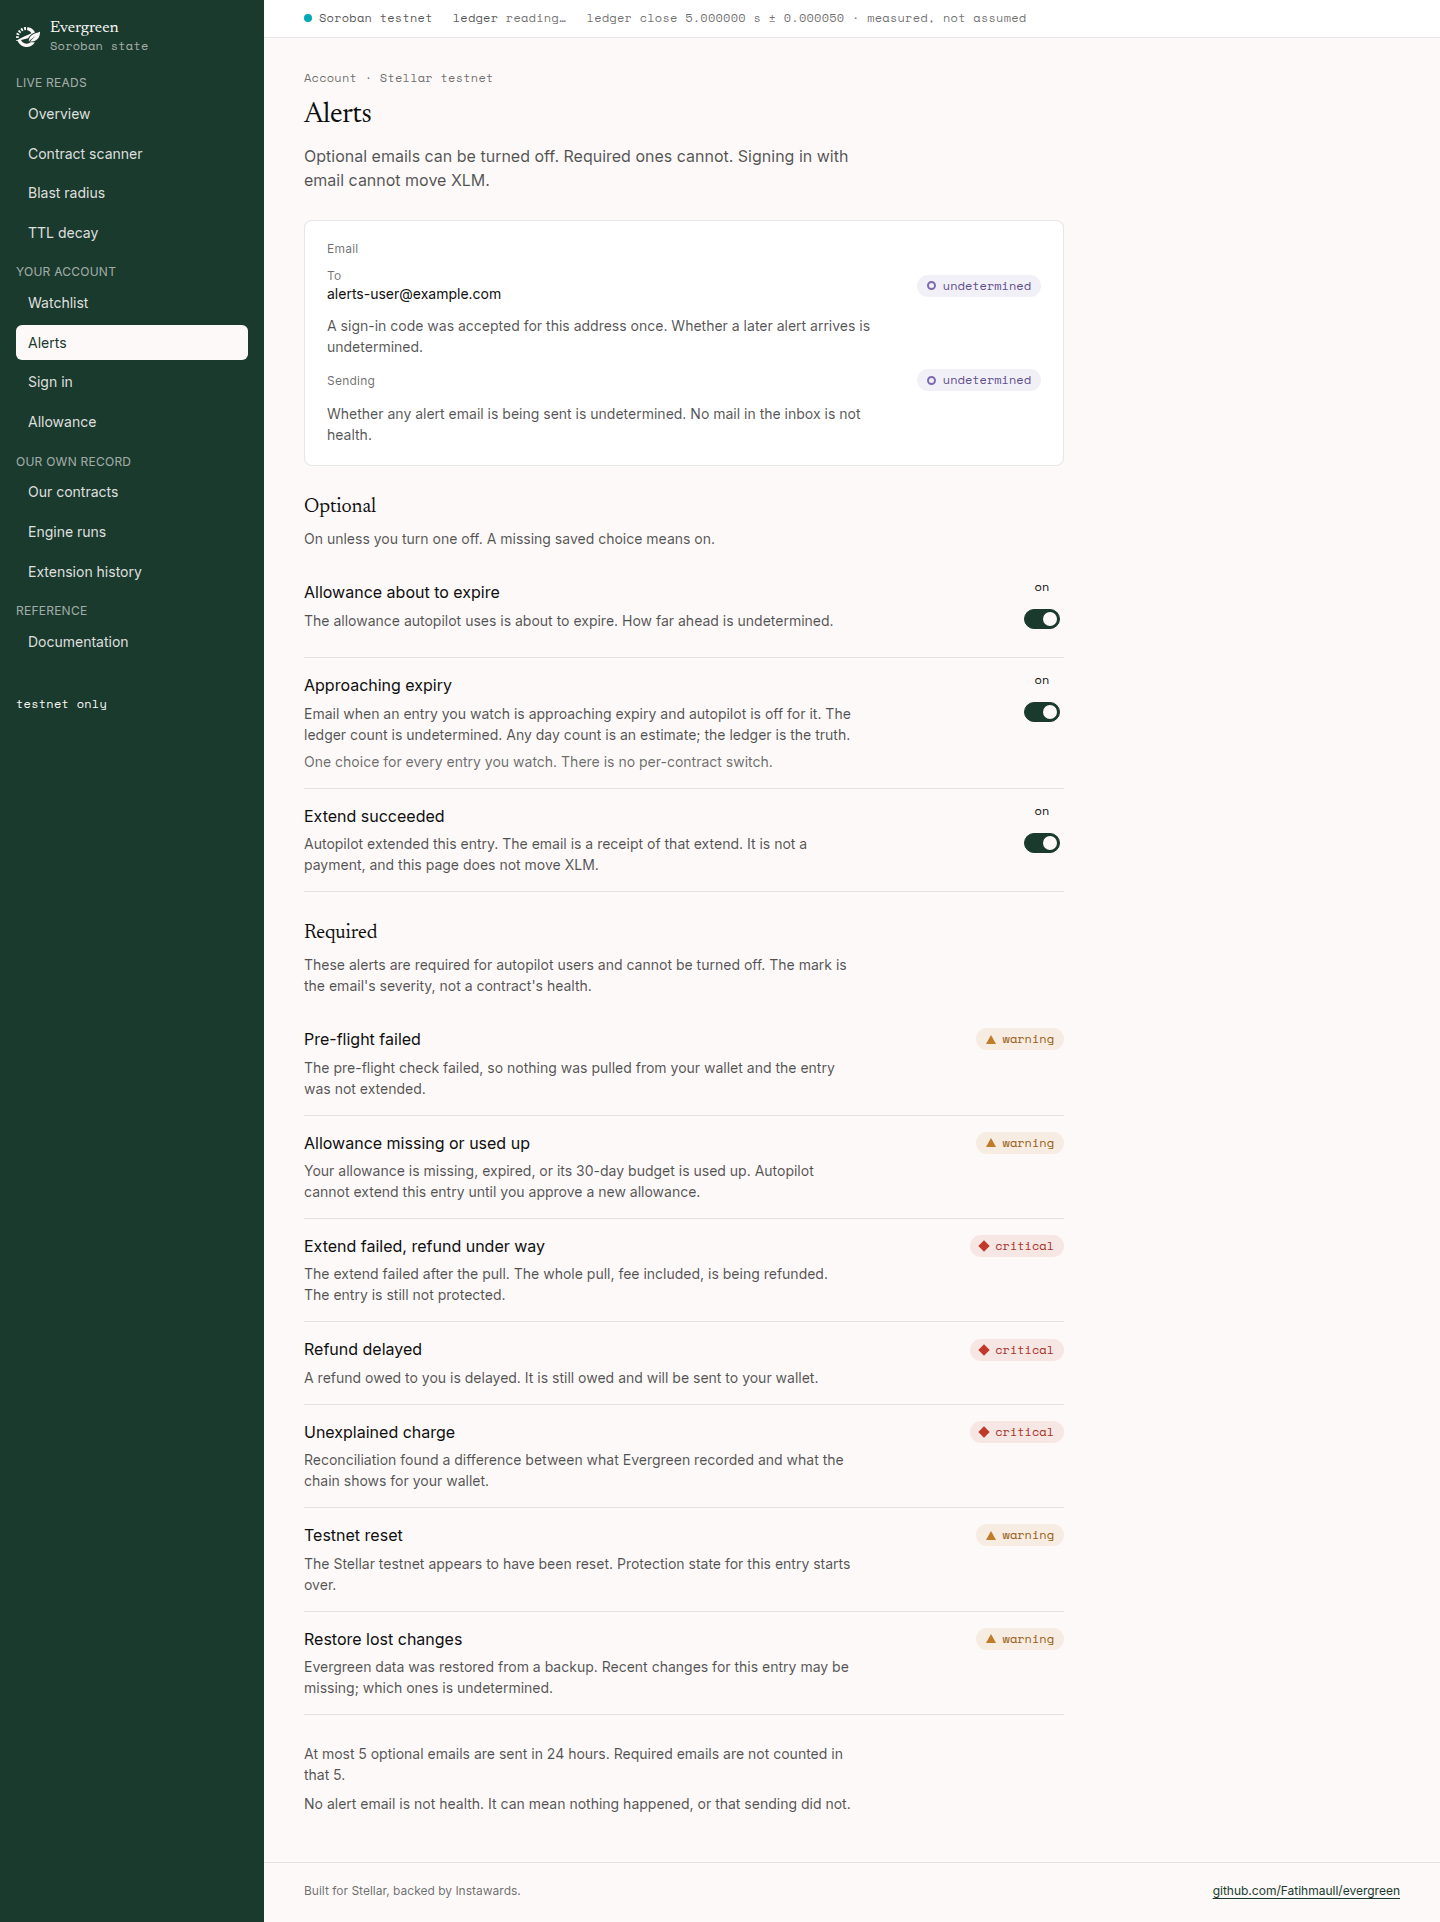
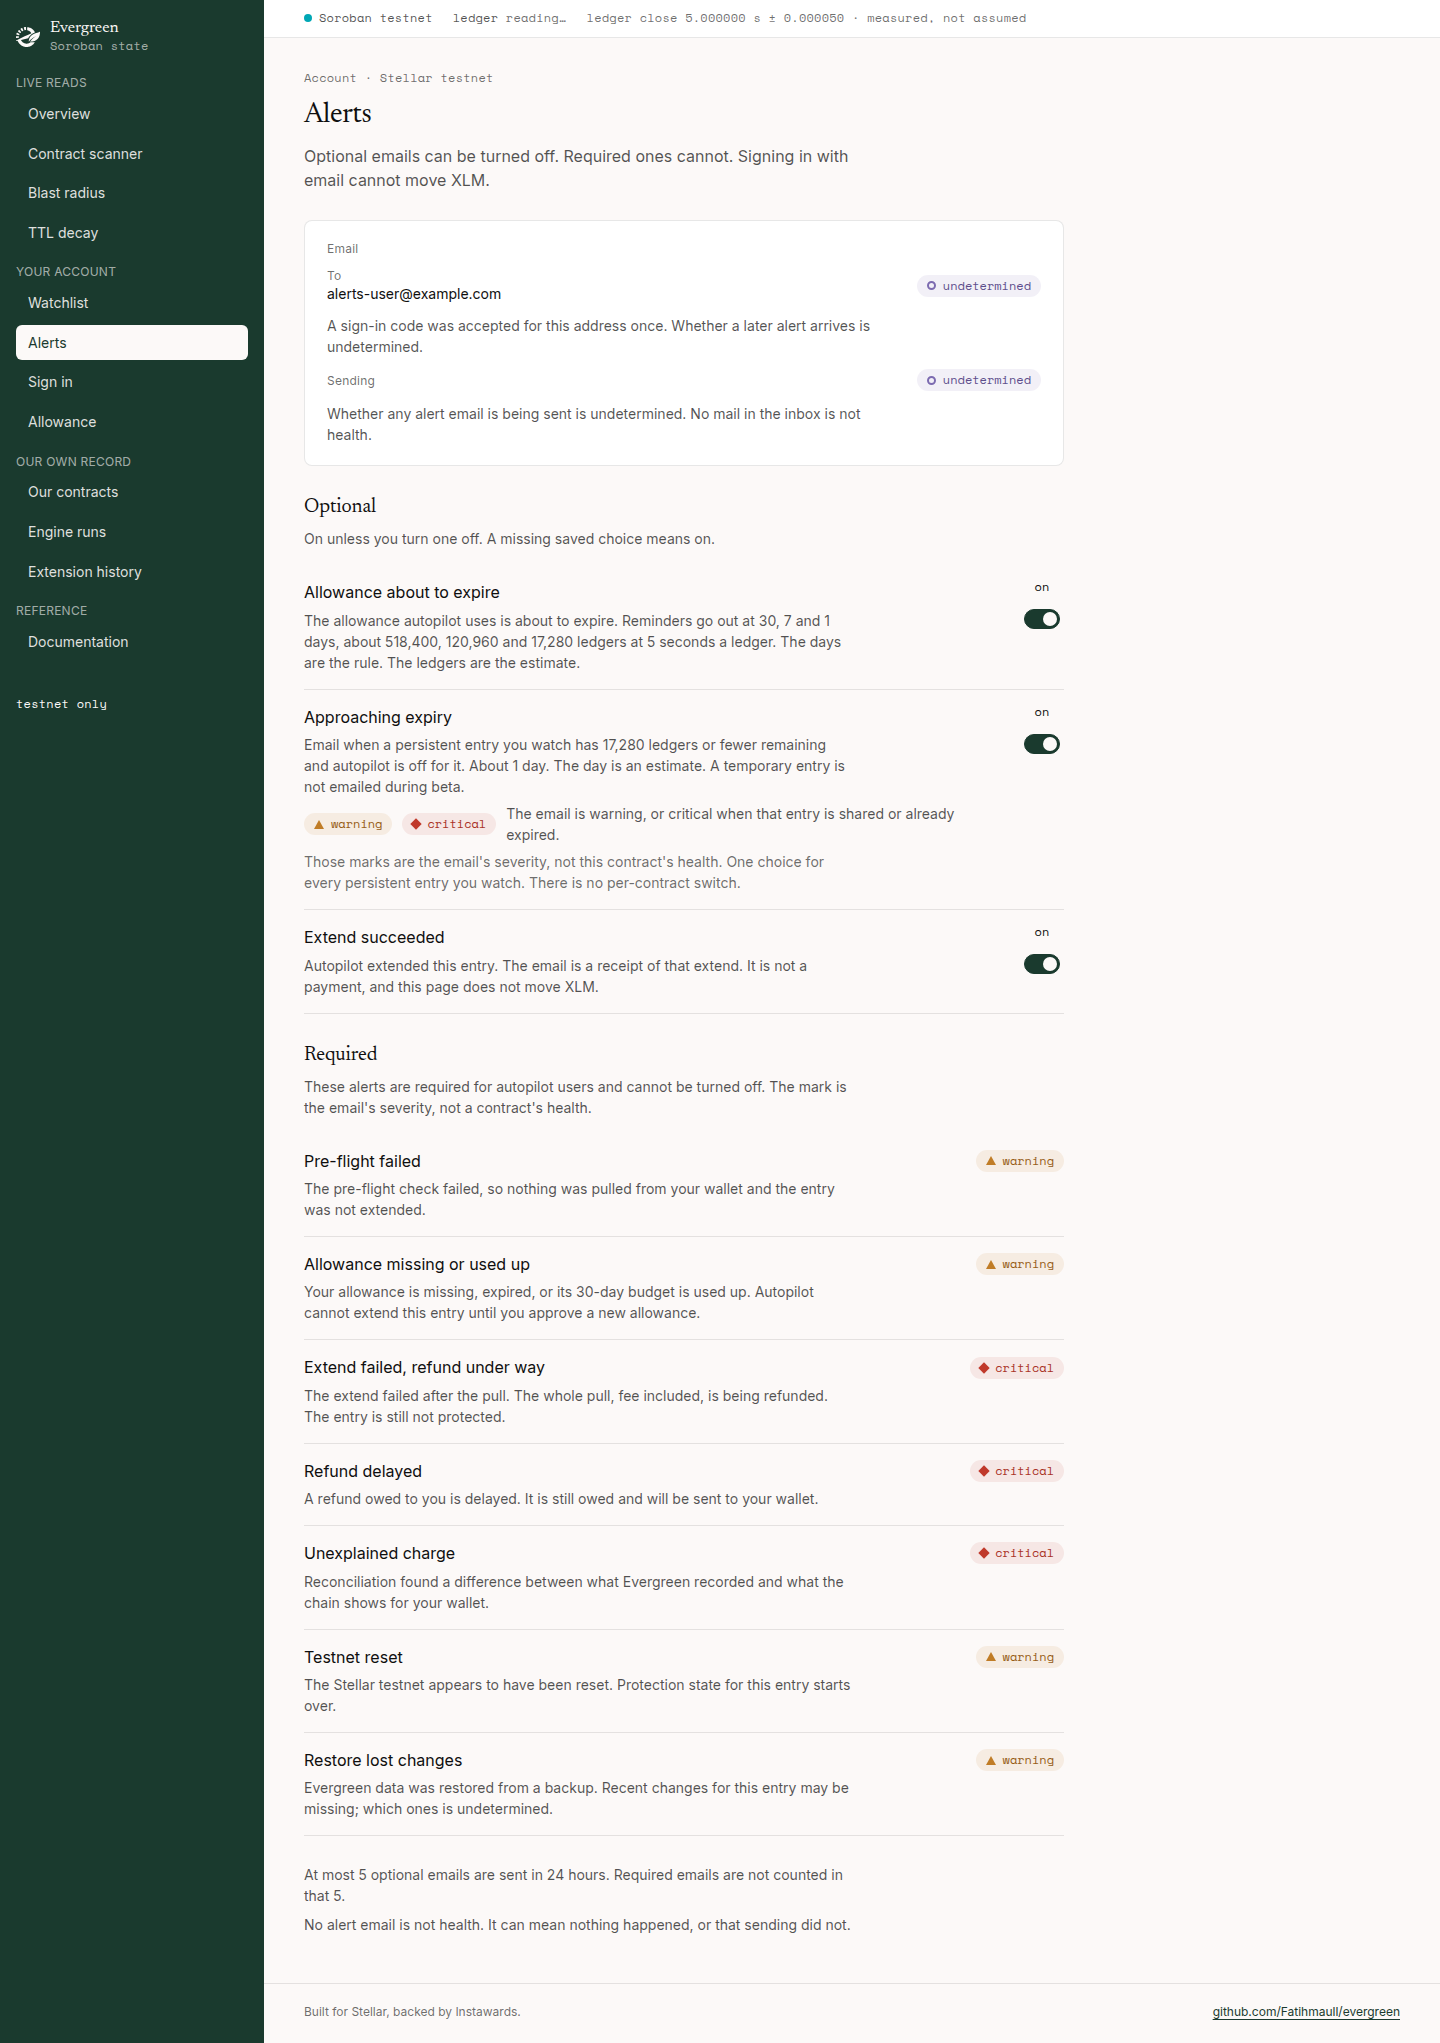
docs(design): record Fatih's 15 Nov alert decisions [PH2-E2-06]
Persistent expiry warning is 17,280 ledgers. Allowance reminders are
30, 7 and 1 days from ADR-007. Temporary entries get no email during
beta. Approaching severity follows the CLI health check. F3 and F5
have no email of their own.

diff --git a/web-reference/design-language/source/screens/alert-preferences.html b/web-reference/design-language/source/screens/alert-preferences.html
@@ -101,7 +101,9 @@
                 <div class="pref-copy">
                   <p class="row-title">Allowance about to expire</p>
                   <p class="note">
-                    The allowance autopilot uses is about to expire. How far ahead is undetermined.
+                    The allowance autopilot uses is about to expire. Reminders go out at 30, 7 and 1
+                    days, about 518,400, 120,960 and 17,280 ledgers at 5 seconds a ledger. The days
+                    are the rule. The ledgers are the estimate.
                   </p>
                 </div>
                 <div class="control">
@@ -121,12 +123,21 @@
                 <div class="pref-copy">
                   <p class="row-title">Approaching expiry</p>
                   <p class="note">
-                    Email when an entry you watch is approaching expiry and autopilot is off for it.
-                    The ledger count is undetermined. Any day count is an estimate; the ledger is
-                    the truth.
+                    Email when a persistent entry you watch has 17,280 ledgers or fewer remaining
+                    and autopilot is off for it. About 1 day. The day is an estimate. A temporary
+                    entry is not emailed during beta.
                   </p>
+                  <div class="severity-rule">
+                    <span class="chip warning"><span class="shape"></span>warning</span>
+                    <span class="chip critical"><span class="shape"></span>critical</span>
+                    <p class="note">
+                      The email is warning, or critical when that entry is shared or already
+                      expired.
+                    </p>
+                  </div>
                   <p class="note standing">
-                    One choice for every entry you watch. There is no per-contract switch.
+                    Those marks are the email's severity, not this contract's health. One choice for
+                    every persistent entry you watch. There is no per-contract switch.
                   </p>
                 </div>
                 <div class="control">

diff --git a/web-reference/design-language/source/screens/alert-preferences.css b/web-reference/design-language/source/screens/alert-preferences.css
@@ -278,6 +278,17 @@ main.main {
   color: var(--ink-3);
 }
 
+.severity-rule {
+  display: flex;
+  flex-wrap: wrap;
+  gap: 8px 10px;
+  align-items: center;
+}
+
+.severity-rule .note {
+  flex: 1 1 28ch;
+}
+
 .required-line {
   display: flex;
   flex-wrap: wrap;

diff --git a/web-reference/design-language/components.md b/web-reference/design-language/components.md
@@ -275,17 +275,30 @@ is not a route this screen calls.
    next frame. Hover changes colour only, over the existing 150ms, and this
    screen's switch has no hover move. Focus is the shipping ring: `2px solid
    --pine`, offset 2px, radius 3px.
-7. **Ledgers are the truth, dates are estimates.** #611 named the rule.
-   `approaching_critical` is 17,280 ledgers remaining or fewer
-   (`DEFAULT_CRITICAL_LEDGERS`). `allowance_expiring` is three crossings,
-   at 518,400, 120,960 and 17,280 ledgers (30, 7 and 1 days × 86,400 ÷ 5).
-   The screen prints the ledger count first and the day as an estimate, at
-   5 seconds a ledger (`SECONDS_PER_LEDGER`), with the word *about*. 518,400
-   is not a protocol constant. Nothing is sent until those ledgers are
-   stored (#612). Still **undetermined**, and the screen says so: a close of
-   about 6 seconds, a separate line for a temporary entry, the event ids,
-   and how often a saved choice is checked. `watch_items.threshold_ledgers`
-   is the autopilot threshold and is not this alert's ledger.
+7. **Ledgers are the truth, dates are estimates.** #611 named the rule, and
+   Fatih confirmed the lead times on 15 Nov 2026. The screen prints the
+   ledger count first and the day as an estimate, with the word *about*.
+   - **Persistent expiry warning.** 17,280 ledgers remaining or fewer.
+     That is `DEFAULT_CRITICAL_LEDGERS` in `packages/core/src/health.ts`
+     and the CLI's `DEFAULT_THRESHOLD_LEDGERS` in `packages/cli/src/scan.ts`.
+     About 1 day, at `SECONDS_PER_LEDGER` (5) in `packages/core/src/ttl.ts`.
+   - **Allowance reminders.** 30, 7 and 1 days.
+     `docs/adr/ADR-007-allowance-funded-hosted-engine.md` says "Renewal
+     reminders go out at 30, 7 and 1 days." ADR-007 states the days, not a
+     ledger count. At 5 seconds a ledger the estimates are 518,400, 120,960
+     and 17,280 (days × 86,400 ÷ 5). 518,400 is that arithmetic, not a
+     protocol constant. 120,960 and 17,280 are also `DEFAULT_WARN_LEDGERS`
+     and `DEFAULT_CRITICAL_LEDGERS`.
+   - **Temporary entries.** No expiry email during beta. Rakha's proposal
+     of about 180 ledgers was considered and is deferred to post-beta. It
+     is not a threshold on this screen. The only committed "about 180
+     ledgers" in the repo is a 15-minute tick (`packages/core/test/scheduler-gap.test.ts`),
+     not an alert threshold.
+   Nothing is sent until the persistent and allowance ledgers are stored
+   (#612). Still **undetermined**, and the screen says so where it has a
+   sentence for it: a close of about 6 seconds, the event ids, and how often
+   a saved choice is checked. `watch_items.threshold_ledgers` is the
+   autopilot threshold and is not this alert's ledger.
 8. **Three-state honesty.** Unknown delivery and unknown verification render
    the undetermined chip: hollow ring, `--und` / `--und-ink`, the word
    `undetermined`. Never a healthy chip, never a check. A known `sent` is
@@ -360,21 +373,34 @@ read.
 
 | Kind | Title | Switch sentence |
 |---|---|---|
-| `allowance_expiring` | Allowance about to expire | The allowance autopilot uses is about to expire. Once a send exists, the reminders are at 518,400, 120,960 and 17,280 ledgers remaining, about 30, 7 and 1 days at 5 seconds a ledger. 518,400 is not a protocol constant. A close of about 6 seconds is undetermined. Nothing is sent until the expiry ledger is stored. |
-| `approaching_critical` | Approaching expiry | Email when an entry you watch has 17,280 ledgers or fewer remaining and autopilot is off for it. About 1 day, at 5 seconds a ledger, the display assumption. A close of about 6 seconds is undetermined, and a separate line for a temporary entry is undetermined. Nothing is sent until that ledger is stored. The day is an estimate. |
+| `allowance_expiring` | Allowance about to expire | The allowance autopilot uses is about to expire. Reminders go out at 30, 7 and 1 days, about 518,400, 120,960 and 17,280 ledgers at 5 seconds a ledger. The days are the rule. The ledgers are the estimate. A close of about 6 seconds is undetermined. Nothing is sent until the expiry ledger is stored. |
+| `approaching_critical` | Approaching expiry | Email when a persistent entry you watch has 17,280 ledgers or fewer remaining and autopilot is off for it. About 1 day. The day is an estimate. The email is warning, or critical when that entry is shared or already expired. A temporary entry is not emailed during beta. Nothing is sent until that ledger is stored. |
 | `extend_succeeded` | Extend succeeded | Autopilot extended this entry. The email is a receipt of that extend. It is not a payment, and this page does not move XLM. |
 
 Intro, under the `Optional` heading: "On unless you turn one off. A missing
 saved choice means on."
 
 Under Approaching expiry, always, once the row is shown: "One choice for
-every entry you watch. There is no per-contract switch."
+every persistent entry you watch. There is no per-contract switch."
 
-The optional rows wear no severity chip. `extend_succeeded` and
-`allowance_expiring` are `info`, and `info` is not a health state.
-`approaching_critical` takes its severity from `assessEntry` (#611, accepted
-item 6). That is warning or critical depending on the entry, so the row
-does not wear one chip. No send exists until the ledger is stored.
+`extend_succeeded` and `allowance_expiring` wear no severity chip. Those
+emails are `info` in `templates.ts`, and `info` is not a health state.
+
+`approaching_critical` follows the CLI health check (Fatih, 15 Nov 2026).
+`packages/cli/src/scan.ts` `healthReport` and `formatHuman` call
+`assessEntryWithThresholds`, which calls `assessEntry` in
+`packages/core/src/health.ts`. The CLI prints `WARNING` and `CRITICAL`
+(`LABEL` in `scan.ts`). This screen uses the existing chip words `warning`
+and `critical` for those two, and no new colour. Below the 17,280-ledger
+lead, a persistent entry that is not shared is warning. It is critical when
+the entry is shared and low, or already expired: `assessEntry` returns
+critical for an expired entry, for a shared entry at or below the threshold,
+and for a temporary entry at or below the threshold (`endBehavior` deleted);
+a single low persistent entry is warning. During beta a temporary entry is
+not emailed, so that critical case has no message yet. The row shows both
+chips as the rule for the email, not as one contract's health. `templates.ts`
+still hard-codes `warn`. That file is not changed here. No send exists until
+the ledger is stored.
 
 **Required.** No switches. Intro: "These alerts are required for autopilot
 users and cannot be turned off. The mark is the email's severity, not a
@@ -415,18 +441,16 @@ target. On: `--pine` fill, cream knob. Off: `--paper` fill, `1px` border
 `off` in Space Mono 12px, `--ink` when on and `--ink-3` when off. The word
 is the signal the colour is not allowed to be alone.
 
-There is no second control. One-click unsubscribe (RFC 8058) is an email
-mechanism for optional kinds; its route is undetermined and it is not a
-button on this page. Turning a switch off is the opt-out.
+There is no second control. One-click unsubscribe is
+`POST /alerts/unsubscribe` (`docs/API.md` §6a, RFC 8058). It is a mail-client
+POST, not a button on this page. Turning a switch off is the per-kind opt-out.
 
 ### States
 
 The preference read is in `docs/API.md` §6a. A signed-in read renders the
 panel and both lists from that response. The unread line is only while the
 request is in flight. Do not hard-code the three switches on. The PNG is the
-success picture so the layout has a target. It was drawn before #611 named
-the ledger rule, so its sentences are the older "undetermined" lines. The
-screen's sentences are the ones in the table above.
+success picture, and its sentences are the ones in the table above.
 
 | State | What renders |
 |---|---|
@@ -459,6 +483,26 @@ Do not build the list until the route is in `docs/API.md`.
 Numbers on this screen, if a count is ever shown, are pinned to `en-US`.
 An unpinned `toLocaleString()` is already a known defect in this product.
 
+### F3 and F5 have no email of their own
+
+DoD-2 asks every failure mode to alert the user
+(`phase-2/PHASE2-PLAN.md`). F3 and F5 meet that by the final-outcome email,
+not by an email of their own (Fatih, 15 Nov 2026). The codes are the ones in
+`docs/PH2-E4-05-FAILURE-MODES.md`. This screen adds no row for F3 or F5.
+
+| Code | As that page defines it | What the user receives |
+|---|---|---|
+| F3 | Pull submitted, outcome unknown | No dedicated email. The user hears the outcome below. |
+| F5 | Extend fails transiently or times out | No dedicated email, and none per attempt. |
+| Success | The extend completed | `extend_succeeded`, optional, on unless turned off. |
+| F4 | Pull succeeded, extend finally failed | `extend_failed_refund`, required. The whole pull is refunded, fee included. The entry is still unprotected. |
+| F6 | Refund fails, or is submitted with its outcome unknown | `refund_delayed`, required. The refund is owed and delayed. The 15 Nov decision calls this the refund-pending email. It is this mode. |
+
+`docs/PH2-E4-05-FAILURE-MODES.md` still says F3's earlier "pending" notice
+and F5's delay notice are undetermined, and F3's user line names F5 as one
+way the outcome is told. This section follows the 15 Nov decision: those
+notices are not sent. The failure-modes page was not edited here.
+
 ### Open questions for CEF
 
 1. **The read and the write.** Answered by #603, `docs/API.md` §6a. The
@@ -472,17 +516,14 @@ An unpinned `toLocaleString()` is already a known defect in this product.
    line stays undetermined. The read has to preserve the byte comparison:
    only exactly `send` is on.
 4. **Outbox history.** Not built. Do not add it from the table.
-5. **The ledger count for `approaching_critical`, and the lead time for
-   `allowance_expiring`.** #611 named both: 17,280, and 518,400 / 120,960 /
-   17,280. The screen prints them and says nothing is sent until the ledger
-   store exists (#612). Still undetermined: a close of about 6 seconds, a
-   separate line for a temporary entry, the event ids, and how often a
-   saved choice is checked. The screen says so and does not invent a number
-   for any of those.
-6. **Which severity `approaching_critical` sends.** #611 takes it from
-   `assessEntry`, which is warning or critical per entry. The row wears no
-   single chip. `templates.ts` still hard-codes `warn`; that file is not
-   changed here.
-7. **F3 and F5.** The alerts design leaves them undetermined and sends no
-   user email for them today. They are not rows on this screen.
+5. **Lead times.** Answered 15 Nov 2026. Persistent expiry warning: 17,280
+   ledgers, about 1 day. Allowance reminders: 30, 7 and 1 days (ADR-007).
+   Temporary entries: no email during beta. Still undetermined, and the
+   screen says so: a close of about 6 seconds, the event ids, and how often
+   a saved choice is checked. The screen does not invent a number for those.
+6. **Which severity `approaching_critical` sends.** Answered 15 Nov 2026.
+   It follows `assessEntry`, warning or critical as that function returns.
+   `templates.ts` still hard-codes `warn`; that file is not changed here.
+7. **F3 and F5.** Answered 15 Nov 2026. No dedicated email. The user is
+   told by success, F4, or F6. See the section above.
 
